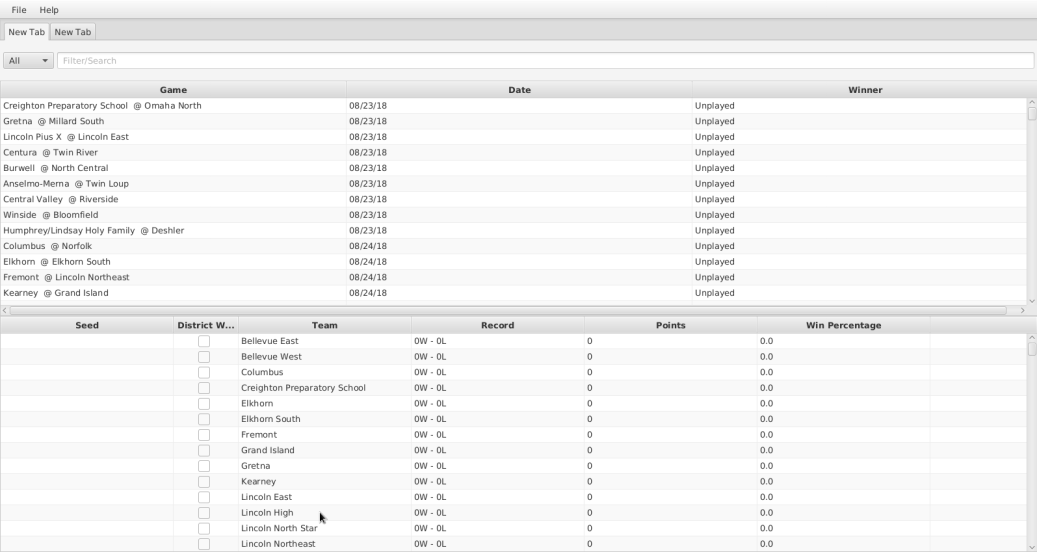
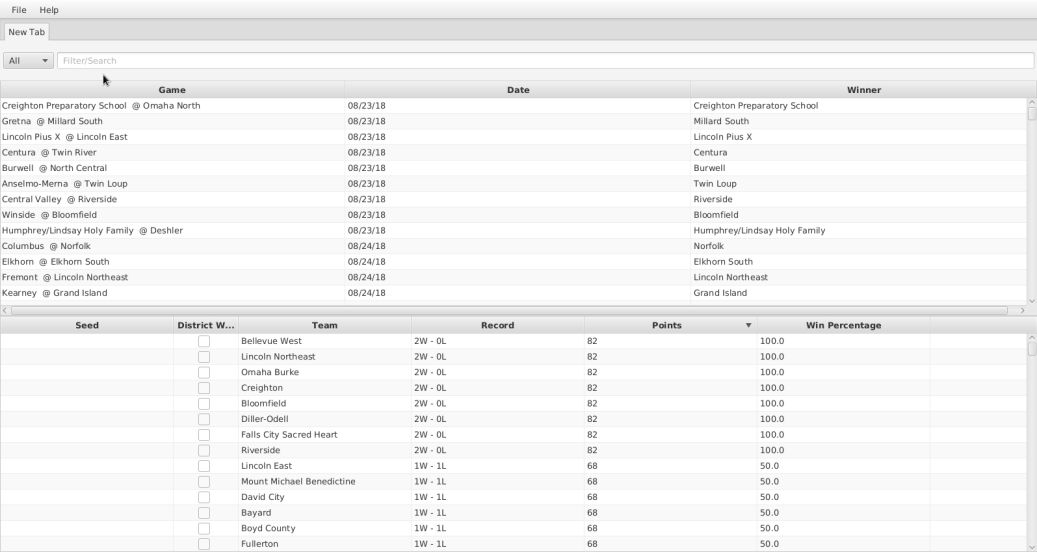
Update screenshot

diff --git a/README.md b/README.md
@@ -1,6 +1,5 @@
 # NSAA Seed Predictor
 ![Screenshot](pictures/screenshot.png?raw=true "Screenshot")
-(at the time of this screenshot the football season hasn't started yet, so the fields are unfilled)
 
 This program was written for the football coach at my local highschool in Scottsbluff, Nebraska. It is useful because it lets you try to predict what the seed placements for the finals will be so you know which team(s) you will need to prepare against.
 
